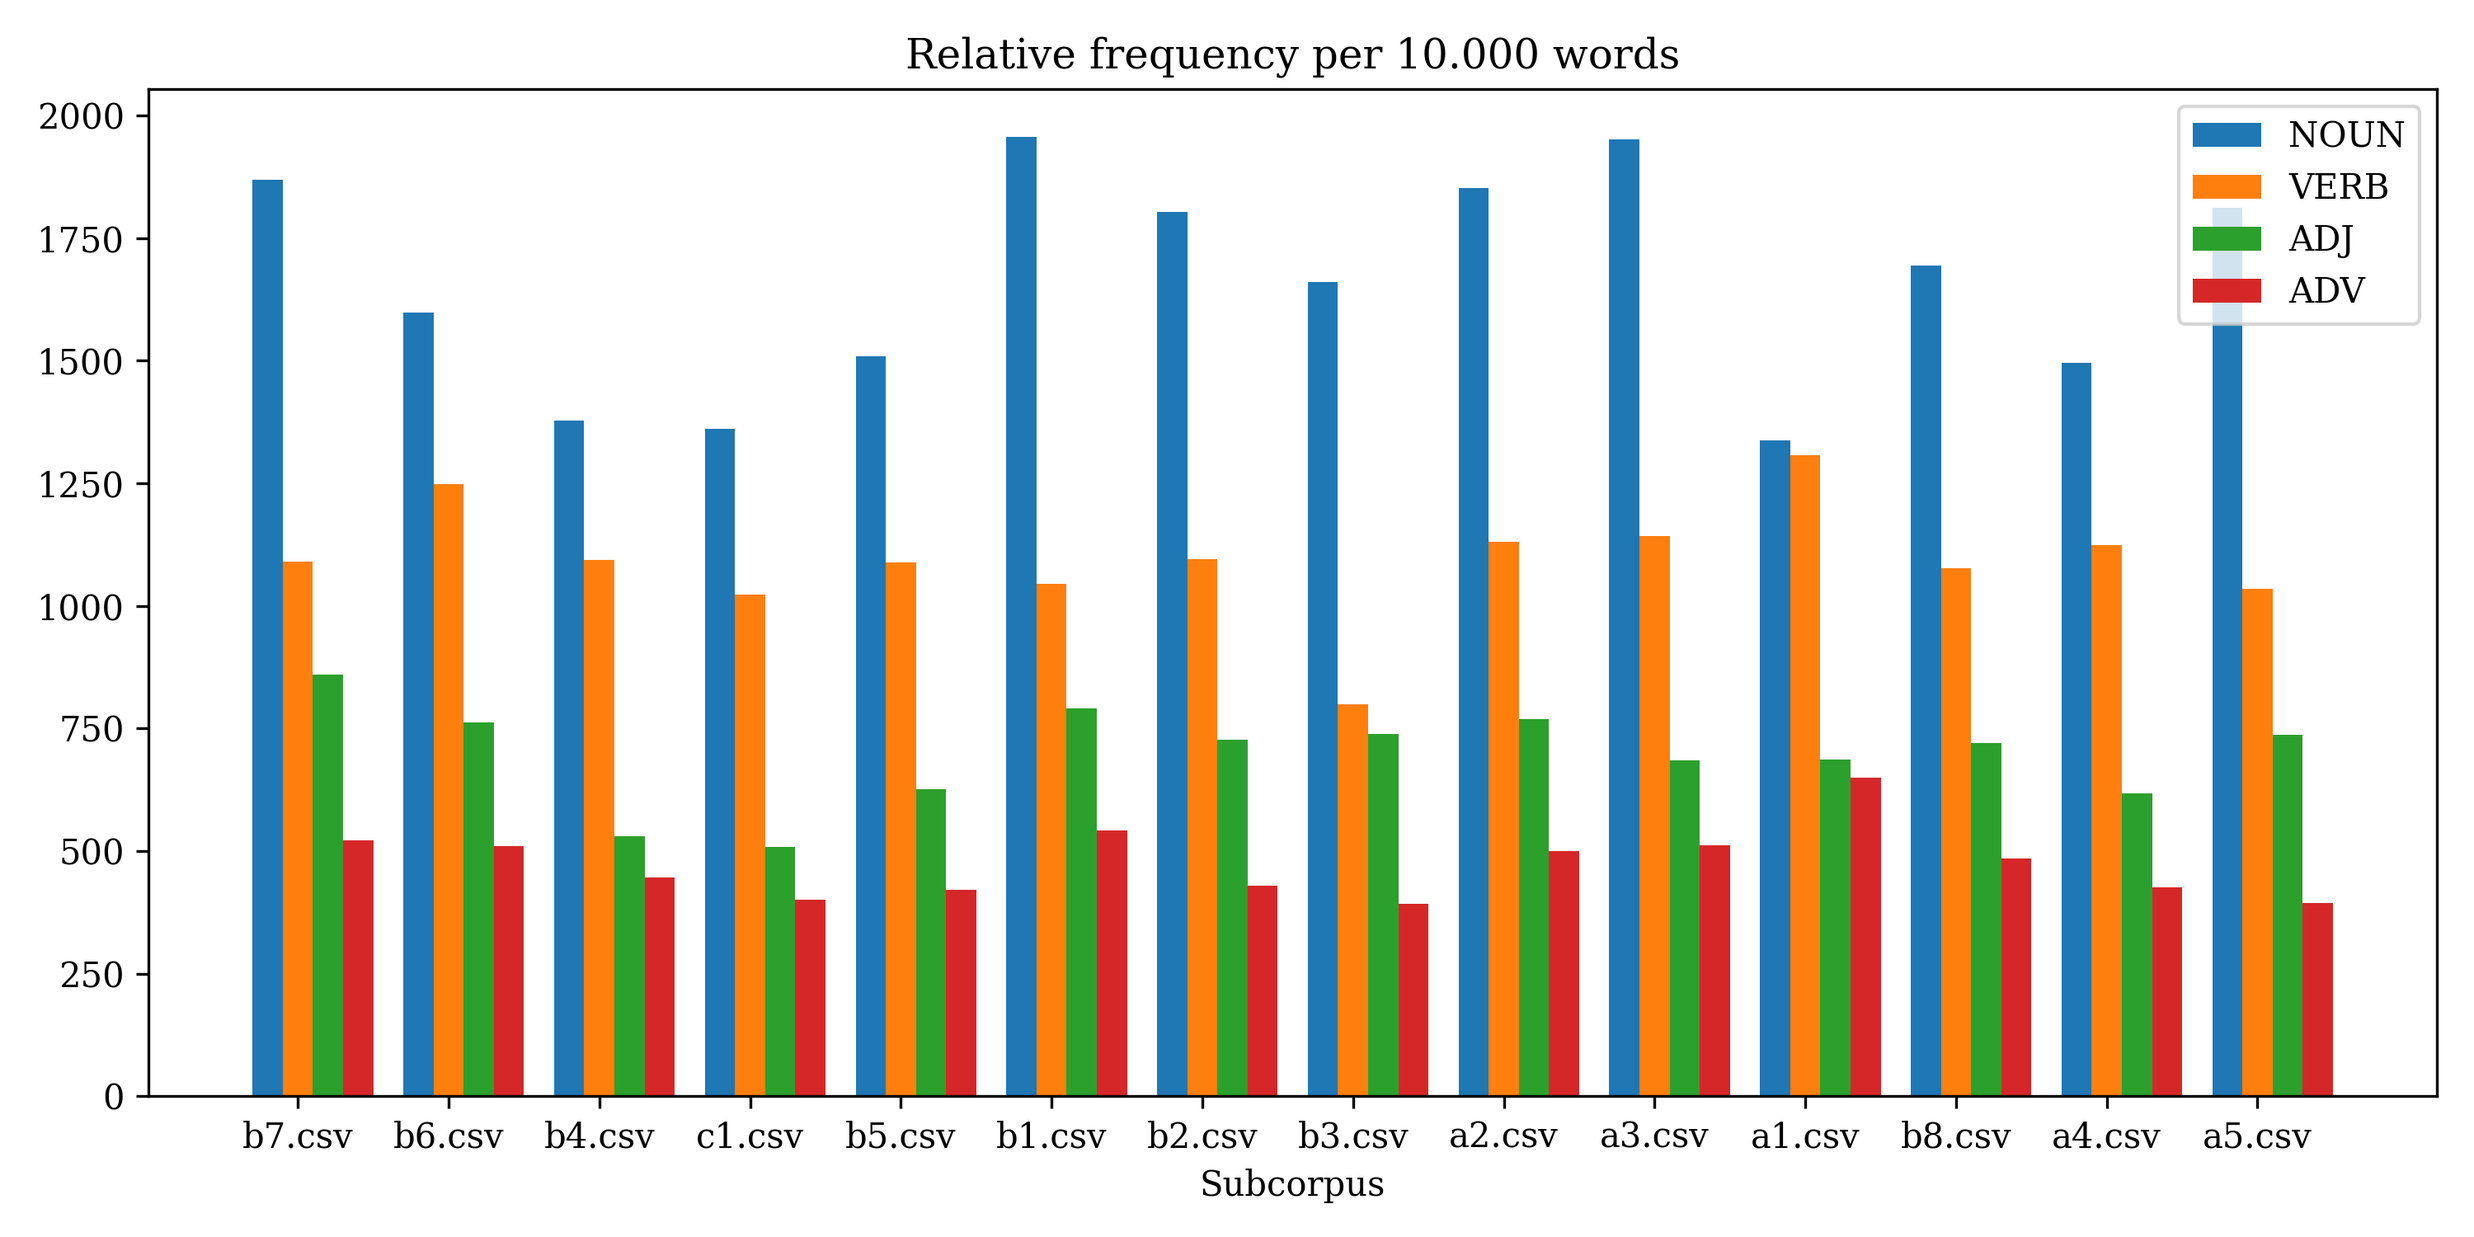
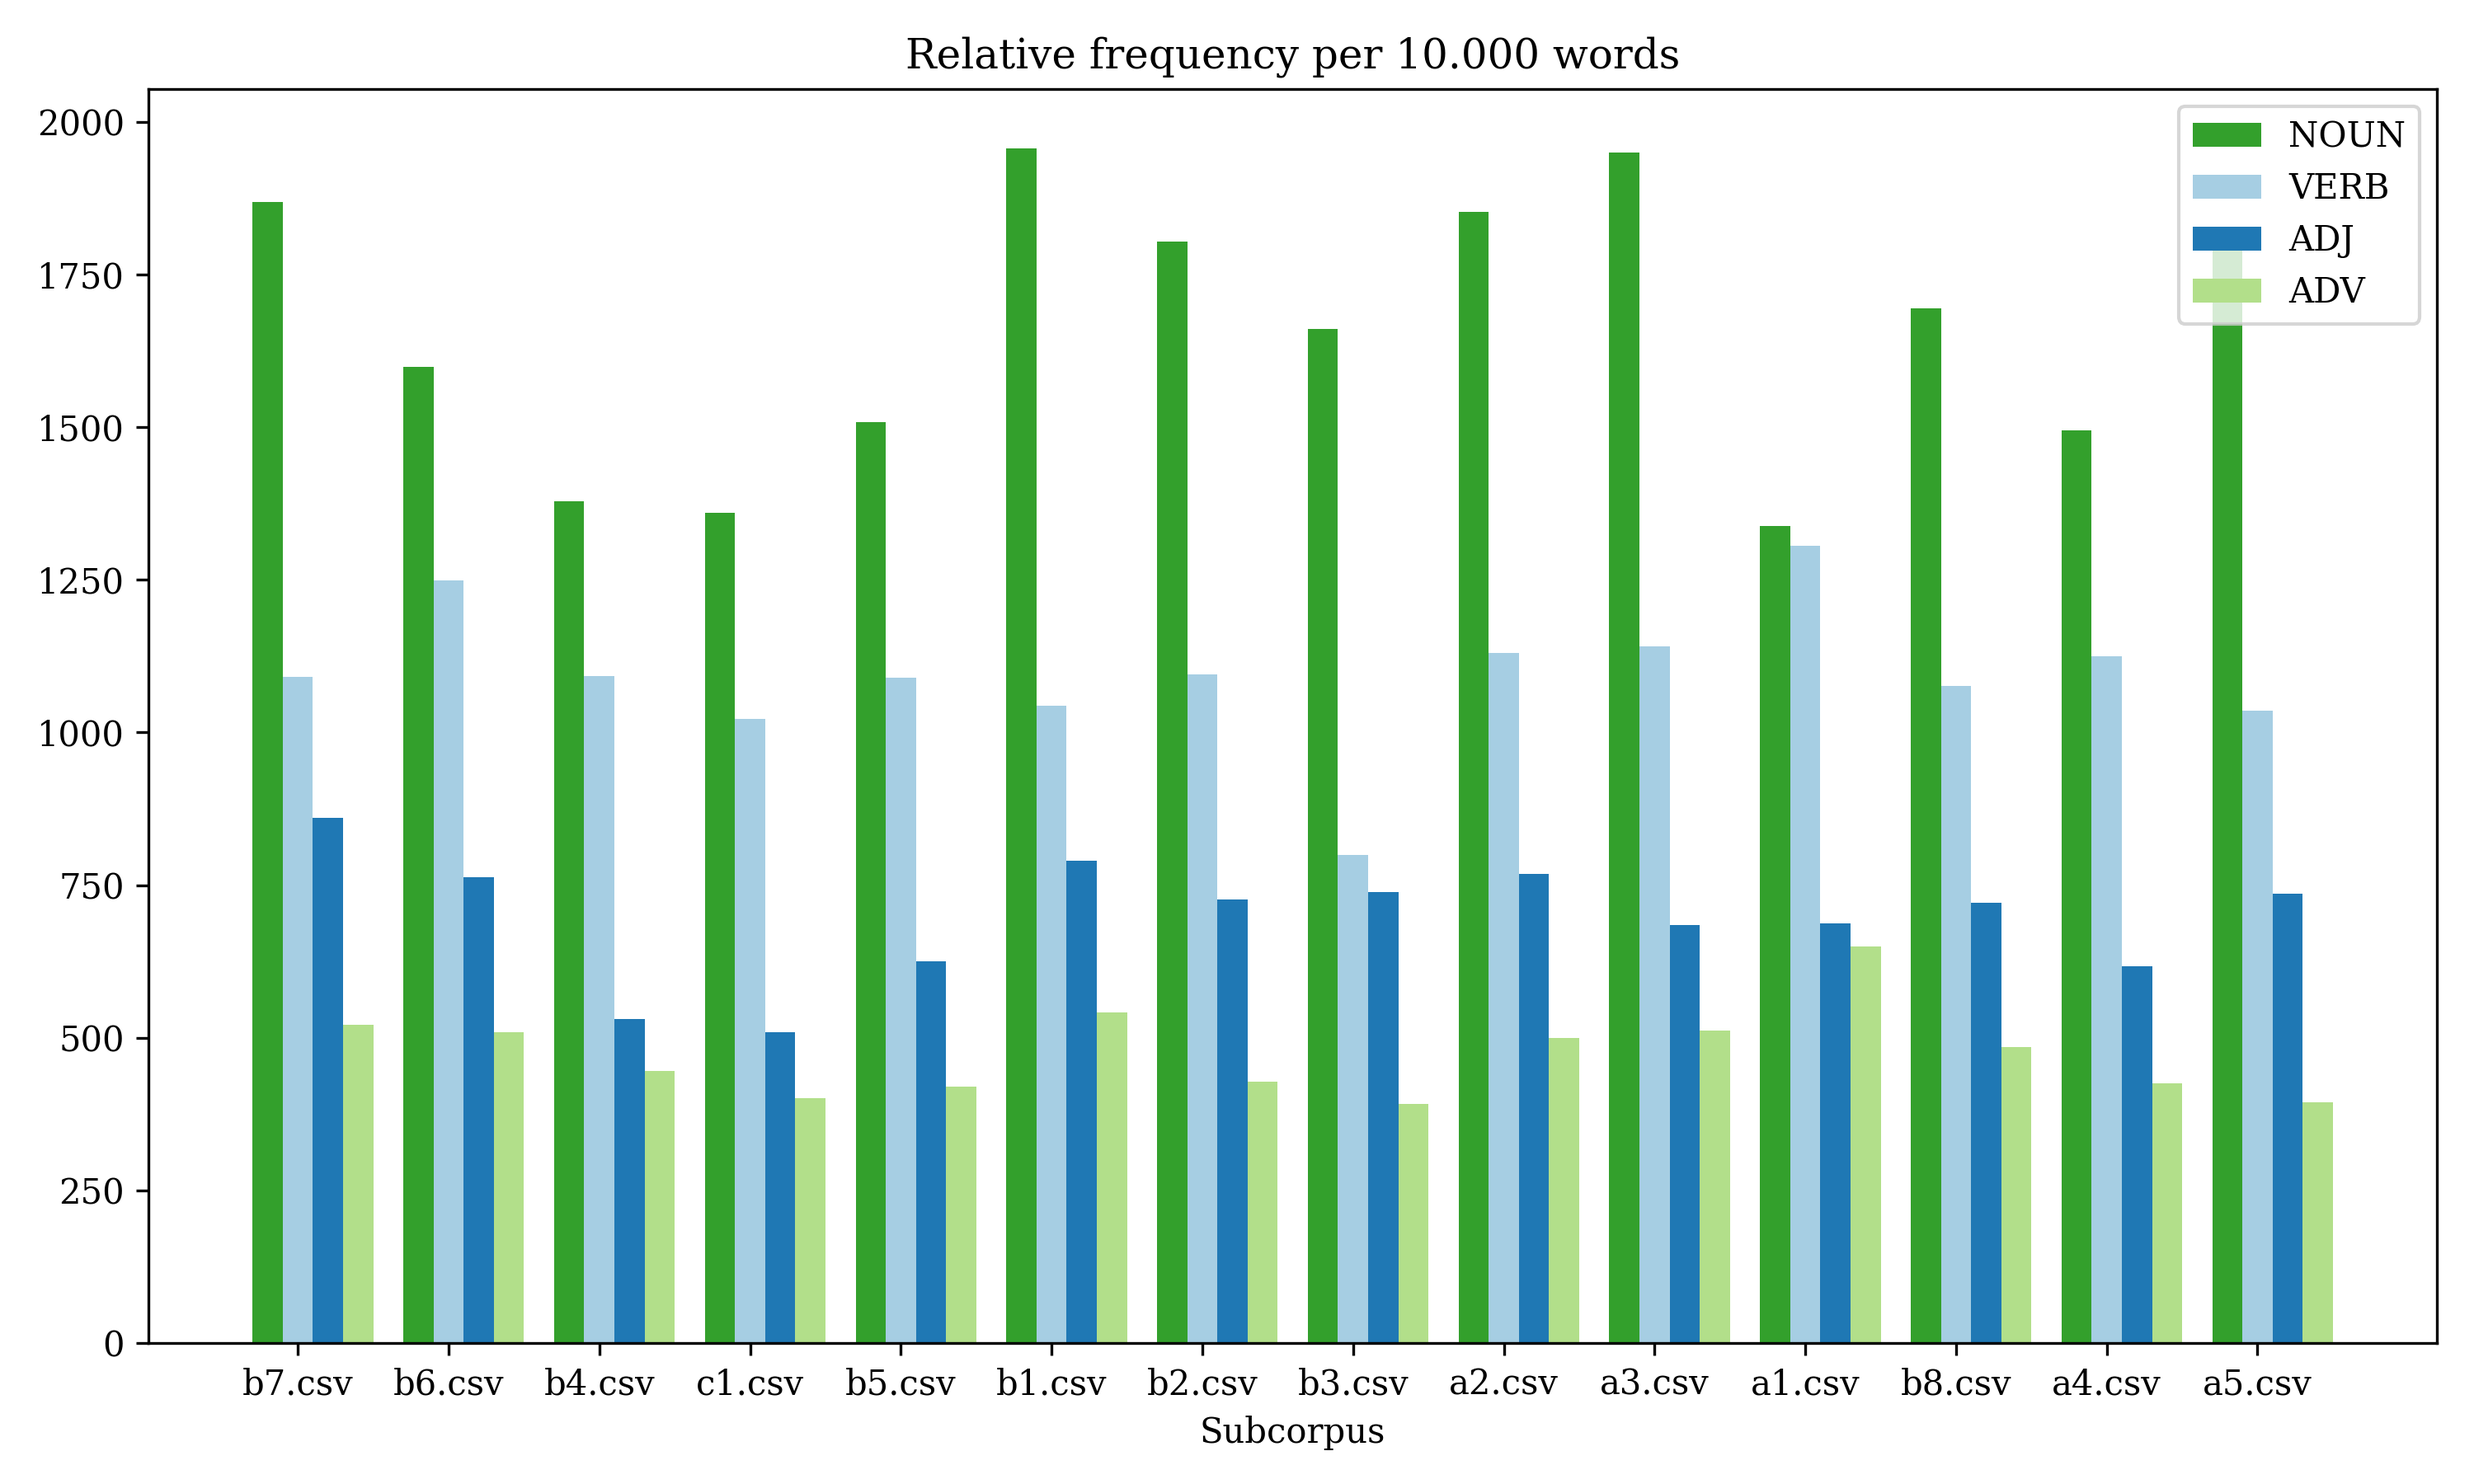
update colours and docstrings

diff --git a/src/plot_entities.py b/src/plot_entities.py
@@ -3,33 +3,47 @@ Plots the distribution of the entities in the dataset
 """
 
 import matplotlib.pyplot as plt
+import matplotlib.cm as cm
 import numpy as np
 import pandas as pd
 from pathlib import Path
 
 plt.rcParams["font.family"] = "serif"
 
-def plot_entities(dfs, save_path):
 
-    fig, ax = plt.subplots(1, figsize=(10, 5), dpi = 300)
+def plot_entities(dfs, save_path = None):
+    """
+    Plots the distribution of the entities in each of the subcorpora
+
+    Parameters
+    ----------
+    dfs : dict
+        Dictionary with the dataframes for each subcorpus (key = subcorpus name)
+    save_path : str
+        Path to save the plot to. If None, the plot is not saved.
+    """
+
+    fig, ax = plt.subplots(1, figsize=(10, 6), dpi = 300)
+
+    # define colour palette
+    palette = cm.get_cmap("Paired").colors
+    palette = [palette[3], palette[0], palette[1], palette[2]]
 
     # x ticks (all keys)
     x = list(dfs.keys())
 
     ys = {}
-    # loop over columns
-    for i, col in enumerate(dfs[x[0]].columns[1:5]):
-        # y values
-        y = [df[col].mean() for df in dfs.values()]
 
-        # add to dict
+    # loop over columns and get mean for each subcorpus
+    for col in dfs[x[0]].columns[1:5]:
+        y = [df[col].mean() for df in dfs.values()]
         ys[col] = y
 
 
     # plot with bars, next to each other
     width = 0.2
     for i, col in enumerate(ys.keys()):
-        ax.bar(np.arange(len(x)) + width * i, ys[col], width, label=col.split("_")[-1])
+        ax.bar(np.arange(len(x)) + width * i, ys[col], width, label=col.split("_")[-1], color = palette[i])
 
     # set x ticks
     ax.set_xticks(np.arange(len(x)) + width, x)
@@ -42,15 +56,13 @@ def plot_entities(dfs, save_path):
 
     ax.set_title("Relative frequency per 10.000 words")
 
-
     plt.tight_layout()
 
 
     if save_path:
         plt.savefig(save_path)
+
     
-
-
 
 def main():
     path = Path(__file__)
